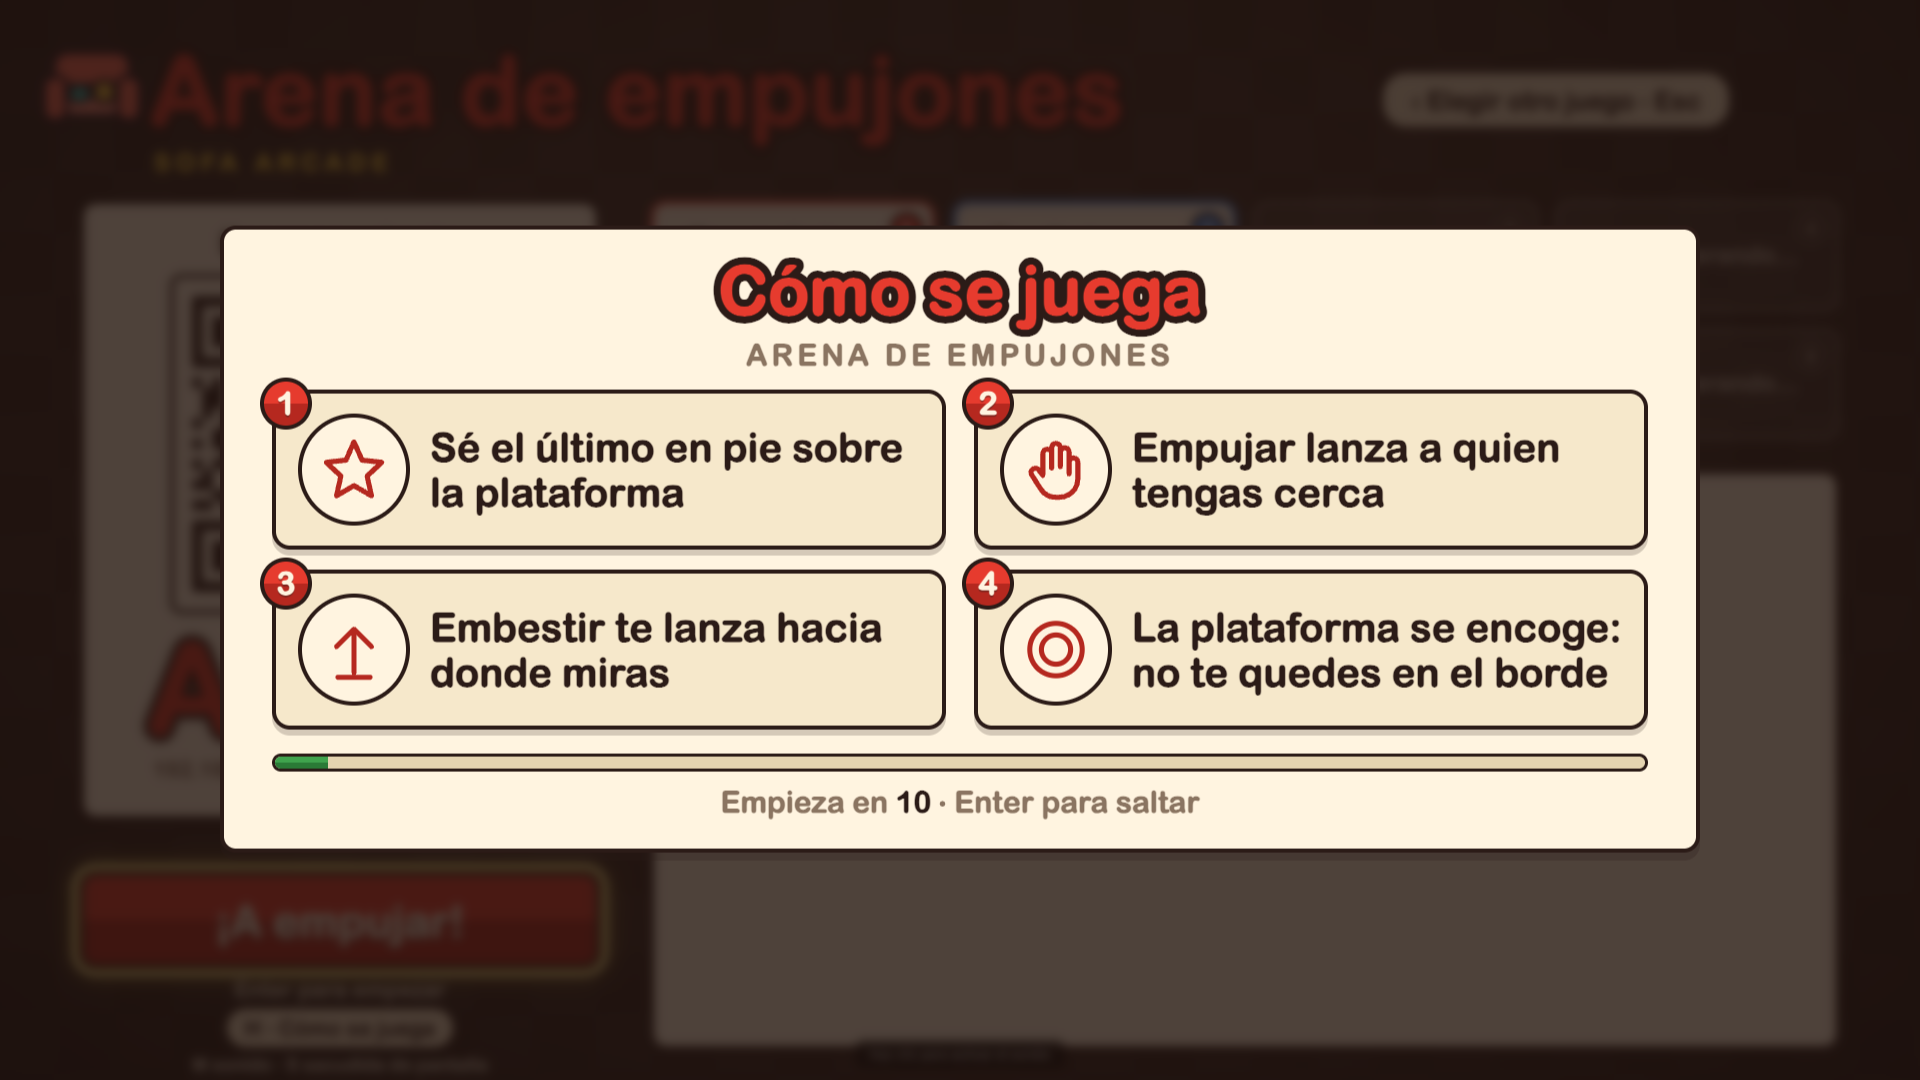
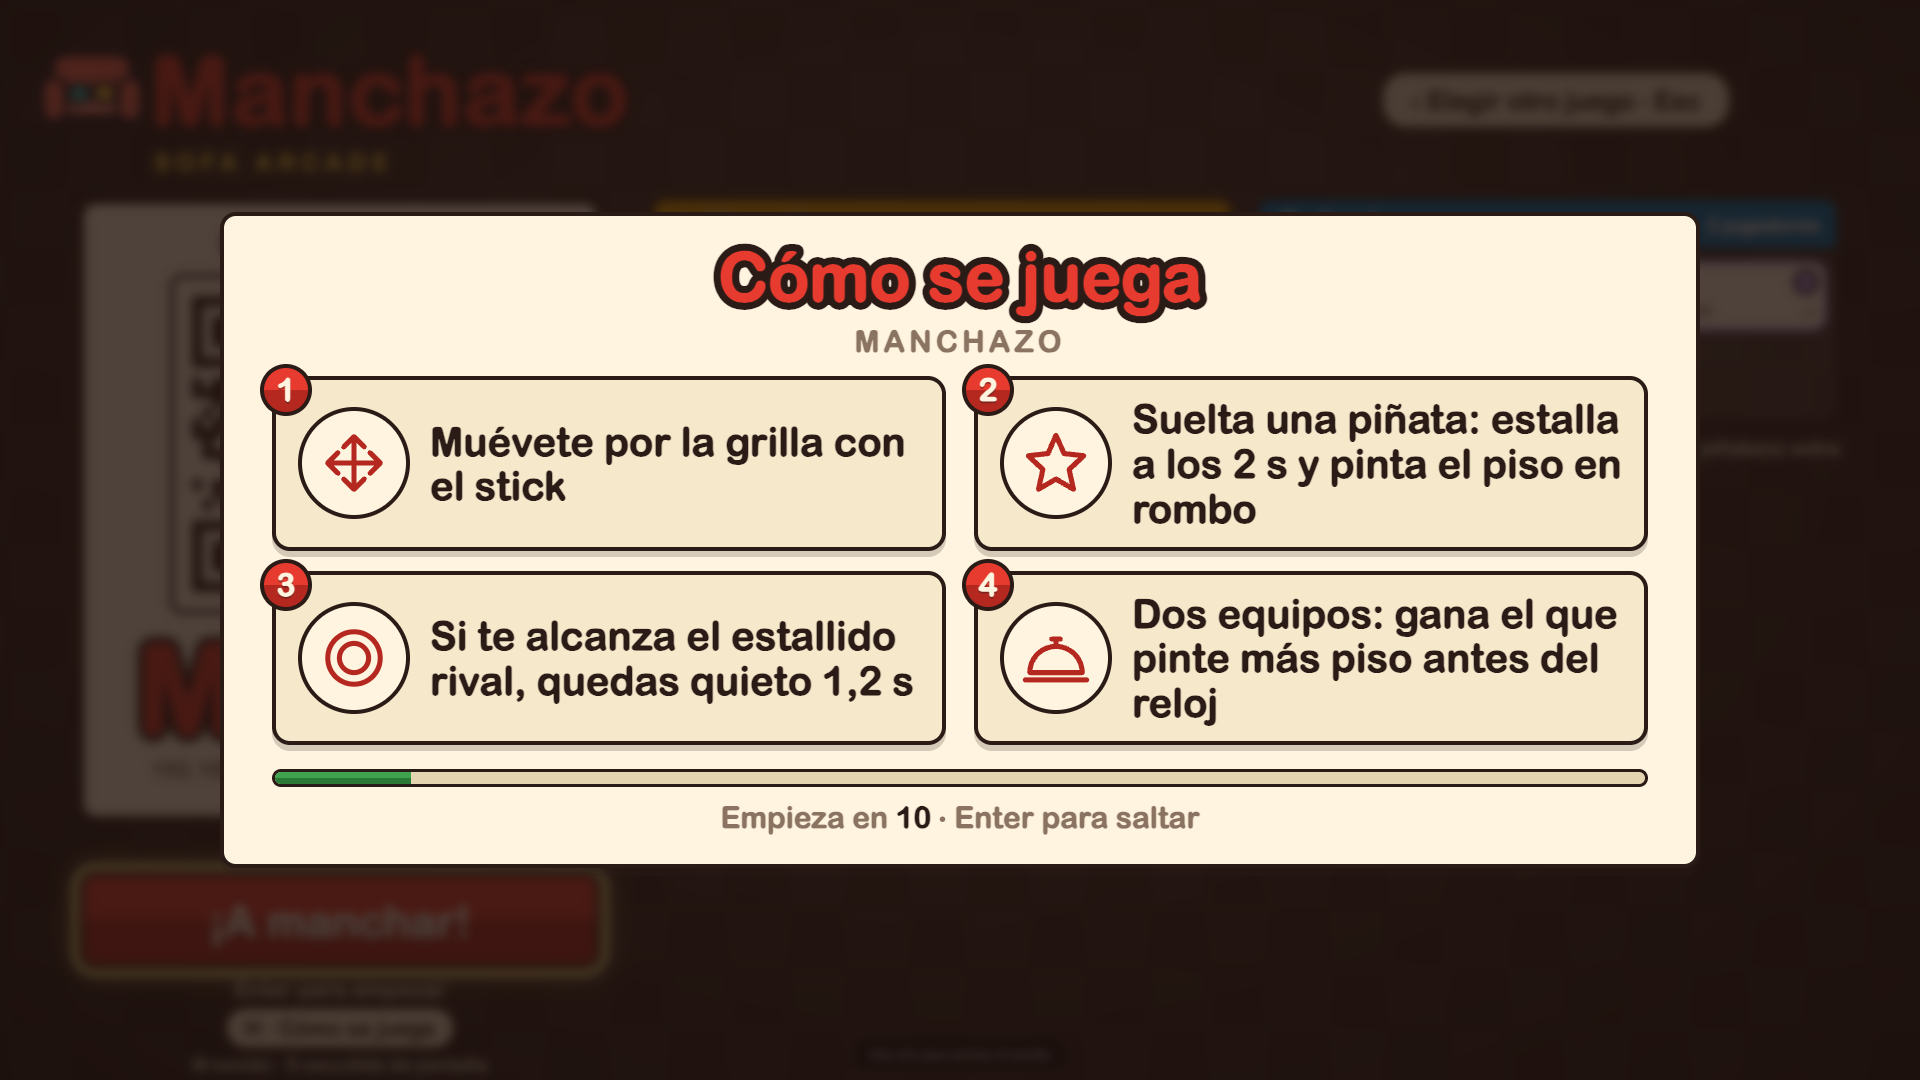
Manchazo: catálogo (nombre, orden), barra del piso y espaciado de resultados (#36)
* capture: manchazo scenario also shoots the menu and the how-to card

Claude-Session: https://claude.ai/code/session_01Djd76mDCFx5wKHiv7BtgJo

* Manchazo: rename in the catalog (second in the menu), HUD bar shows the floor, results title spacing

Claude-Session: https://claude.ai/code/session_01Djd76mDCFx5wKHiv7BtgJo

* hud-bar test: overflow case really overflows

Claude-Session: https://claude.ai/code/session_01Djd76mDCFx5wKHiv7BtgJo

* capture/e2e menu pickers read the card index (sel is a number); no-break space in how-to times

Claude-Session: https://claude.ai/code/session_01Djd76mDCFx5wKHiv7BtgJo

* evidence (temporary): before captures

Claude-Session: https://claude.ai/code/session_01Djd76mDCFx5wKHiv7BtgJo

* captures: regrab menu (tv-menu-soon), how-to, tele and results for Manchazo

Claude-Session: https://claude.ai/code/session_01Djd76mDCFx5wKHiv7BtgJo

* evidence: drop the temporary before captures (still reachable by commit)

Claude-Session: https://claude.ai/code/session_01Djd76mDCFx5wKHiv7BtgJo

* baseline: hashes of tv-menu-soon.png and tv-howto.png (Manchazo captures)

Claude-Session: https://claude.ai/code/session_01Djd76mDCFx5wKHiv7BtgJo

---------

diff --git a/games/arena/manifest.ts b/games/arena/manifest.ts
@@ -1,4 +1,4 @@
-// Arena's entry in the game registry. `soon: true`: it is in development, so the composition root (apps/catalog) keeps it out of the screen's menu
+// Manchazo's entry in the game registry (internal id `arena`, folder `games/arena`). `soon: true`: it is in development, so the composition root (apps/catalog) keeps it out of the screen's menu
 // unless the page opens with `?soon=1`. The contract's GameManifest has no such field (it is extra here, read by apps/catalog), so nothing in platform/ changed.
 import type { GameManifest, TeamStyle } from '@pichi/core/contract';
 
@@ -8,10 +8,18 @@ export const TEAM_STYLES: readonly TeamStyle[] = [
   { name: 'Azul', color: '#0072B2', icon: '●' },
 ];
 
+// "Cómo se juega": the current rules (the one mode, and the manifest's own card, say the same).
+const STEPS = [
+  { icon: 'move', text: 'Muévete por la grilla con el stick' },
+  { icon: 'star', text: 'Suelta una piñata: estalla a los 2 s y pinta el piso en rombo' },
+  { icon: 'plate', text: 'Si te alcanza el estallido rival, quedas quieto 1,2 s' },
+  { icon: 'bell', text: 'Dos equipos: gana el que pinte más piso antes del reloj' },
+] as const;
+
 export const arenaManifest = {
   id: 'arena',
-  name: 'Arena de empujones',
-  blurb: 'Empuja a tus rivales fuera de la plataforma.',
+  name: 'Manchazo',
+  blurb: 'Dos equipos sueltan piñatas que pintan el piso en rombo: gana el que deje más piso de su color.',
   soon: true,
   minPlayers: 2,
   maxPlayers: 8,
@@ -29,22 +37,10 @@ export const arenaManifest = {
       teams: { count: [2, 2], maxRatio: 4, handicap: 'game', styles: TEAM_STYLES },
       controls: { btn1: { label: 'Piñata', icon: 'star' }, btn2: { label: 'Pronto', icon: 'jump' } },
       howTo: {
-        steps: [
-          { icon: 'move', text: 'Muévete por la grilla con el stick' },
-          { icon: 'star', text: 'Suelta una piñata: estalla a los 2 s y pinta en rombo' },
-          { icon: 'plate', text: 'Si un estallido rival te alcanza, quedas quieto 1,2 s' },
-          { icon: 'bell', text: 'Gana el equipo con más área pintada al acabar el reloj' },
-        ],
+        steps: STEPS,
       },
     },
   ],
   defaultMode: 'versus',
-  howTo: {
-    steps: [
-      { icon: 'star', text: 'Sé el último en pie sobre la plataforma' },
-      { icon: 'grab', text: 'Empujar lanza a quien tengas cerca' },
-      { icon: 'jump', text: 'Embestir te lanza hacia donde miras' },
-      { icon: 'plate', text: 'La plataforma se encoge: no te quedes en el borde' },
-    ],
-  },
+  howTo: { steps: STEPS },
 } as const satisfies GameManifest & { soon: boolean };

diff --git a/tools/capture/scenarios/manchazo.ts b/tools/capture/scenarios/manchazo.ts
@@ -3,15 +3,18 @@ import { PORT, sleep } from '../config';
 import type { Ctx } from '../session';
 
 // Manchazo F1 (Arena's default round, `?soon=1`): the TV lobby with the two teams (5 players, 3 against 2, so the handicap line shows), the round with
-// 5 phones played by bots dropping pinatas, and the results; then the phone's pad. Saved to the output folder as manchazo-*.png.
+// 5 phones played by bots dropping pinatas, and the results; then the phone's pad. Also the start menu and the how-to card. Saved to the output folder as manchazo-*.png.
 export async function runManchazoTv({ cdp, bots, join, snap, waitFor, click }: Ctx) {
   const room = 'MNCH';
   await cdp.send('Page.navigate', { url: `http://127.0.0.1:${PORT}/screen/?room=${room}&soon=1` });
   await sleep(2500);
   await join(room, 5, [], { menu: true });
+  await sleep(500);
+  await cdp.shot('manchazo-menu');
   const key = (k: string) => cdp.eval(`window.dispatchEvent(new KeyboardEvent('keydown', { key: ${JSON.stringify(k)} }))`);
   for (let i = 0; i < 4; i++) {
-    if ((await cdp.eval<{ sel: string }>('window.__pg.menu()')).sel === 'arena') break;
+    const m = await cdp.eval<{ sel: number; cards: string[] }>('window.__pg.menu()'); // `sel` is the card's index
+    if (m.cards[m.sel]?.startsWith('arena:')) break;
     await key('ArrowRight');
     await sleep(150);
   }
@@ -20,6 +23,7 @@ export async function runManchazoTv({ cdp, bots, join, snap, waitFor, click }: C
   await cdp.shot('manchazo-lobby');
   await click('#start');
   await sleep(1500);
+  await cdp.shot('manchazo-howto');
   await key('Enter'); // past the how-to / countdown, if one is up
   await waitFor((s) => s.phase === 'playing', 15_000);
   const dirs = [

diff --git a/games/arena/screen/match/scene.ts b/games/arena/screen/match/scene.ts
@@ -4,6 +4,7 @@ import Phaser from 'phaser';
 import { C, W } from '@pichi/screen-kit/art';
 import { MAP_H, MAP_ROWS, MAP_W } from '../../map';
 import { blastTiles, percentOf, type ManchazoState } from '../../sim';
+import { floorBar } from './hud-bar';
 import { TEAM_COLOR, bodyOutline } from './scene-body';
 
 const PX = 56; // logical px per tile (5 cm on a 78" screen)
@@ -98,15 +99,11 @@ export class MatchScene extends Phaser.Scene {
     const left = Math.max(0, Math.ceil((s.grid.durationTicks - s.grid.tick) / 60));
     this.clock.setText(s.grid.over ? '¡Fin!' : `${Math.floor(left / 60)}:${String(left % 60).padStart(2, '0')}`);
     [0, 1].forEach((t) => this.pct[t]!.setText(`${t === 0 ? '▲' : '●'} ${percentOf(s.match, t)} %`));
-    const total = s.match.counts[0]! + s.match.counts[1]!;
     const w = MAP_W * PX;
-    this.g.fillStyle(0x333333, 1).fillRect(X0, 112, w, 16);
-    if (total > 0) {
-      const a = (w * s.match.counts[0]!) / total;
-      this.g.fillStyle(TEAM_COLOR[0]!, 1).fillRect(X0, 112, a, 16);
-      this.g.fillStyle(TEAM_COLOR[1]!, 1).fillRect(X0 + a, 112, w - a, 16);
-    }
-    this.g.fillStyle(0xffffff, 1).fillRect(X0 + w / 2 - 2, 106, 4, 28);
+    const bar = floorBar(s.match.counts, s.match.paintable, w); // grey track = unpainted floor, orange from the left, blue from the right
+    this.g.fillStyle(0x555555, 1).fillRect(X0, 112, w, 16);
+    this.g.fillStyle(TEAM_COLOR[0]!, 1).fillRect(X0, 112, bar.orange, 16);
+    this.g.fillStyle(TEAM_COLOR[1]!, 1).fillRect(X0 + w - bar.blue, 112, bar.blue, 16);
   }
 
   private label(slot: number, stunned: boolean): Phaser.GameObjects.Text {

diff --git a/games/arena/test/hud-bar.test.ts b/games/arena/test/hud-bar.test.ts
@@ -1,0 +1,30 @@
+import { describe, expect, it } from 'vitest';
+import { floorBar } from '../screen/match/hud-bar';
+import { percentOf, type MatchState } from '../sim';
+
+describe('the HUD floor bar matches the percent labels', () => {
+  it('orange from the left and blue from the right by their share of the floor, grey in the middle', () => {
+    const w = 1000;
+    const bar = floorBar([100, 200], 400, w);
+    expect(bar).toEqual({ orange: 250, blue: 500 });
+    expect(w - bar.orange - bar.blue).toBe(250); // 25 % unpainted
+  });
+
+  it('shows the same shares as percentOf (not shares of the painted tiles only)', () => {
+    const m = { counts: [40, 80], paintable: 400 } as unknown as MatchState;
+    const w = 800;
+    const bar = floorBar(m.counts, m.paintable, w);
+    expect(percentOf(m, 0)).toBe(10);
+    expect(percentOf(m, 1)).toBe(20);
+    expect(bar.orange / w).toBeCloseTo(percentOf(m, 0) / 100, 10);
+    expect(bar.blue / w).toBeCloseTo(percentOf(m, 1) / 100, 10);
+  });
+
+  it('empty floor draws nothing; a full floor never overflows the track', () => {
+    expect(floorBar([0, 0], 400, 1000)).toEqual({ orange: 0, blue: 0 });
+    expect(floorBar([0, 0], 0, 1000)).toEqual({ orange: 0, blue: 0 });
+    expect(floorBar([200, 200], 400, 1000)).toEqual({ orange: 500, blue: 500 });
+    const over = floorBar([300, 200], 400, 1000); // counts that do not fit the floor (should not happen): the bars still do not cross
+    expect(over.orange + over.blue).toBeLessThanOrEqual(1000);
+  });
+});

diff --git a/apps/catalog/src/games.ts b/apps/catalog/src/games.ts
@@ -17,4 +17,10 @@ export const COMING_SOON: readonly ComingSoon[] = IN_DEVELOPMENT.map(({ id, name
 /** What the screen's menu lists by default: the published games and the announced ones. */
 export const CATALOG = createCatalog(GAMES, COMING_SOON);
 /** Every game, the ones in development included: what the relay accepts and the phones name; the screen binds it only with `?soon=1`. */
-export const DEV_CATALOG = createCatalog([...GAMES, ...IN_DEVELOPMENT], COMING_SOON);
+// The menu's order with `?soon=1`: Pizzas, Manchazo (`arena`), Obstáculos. Anything not listed keeps its place after these.
+const DEV_ORDER: readonly string[] = ['pizzas', 'arena', 'obstaculos'];
+const rank = (id: string) => (DEV_ORDER.includes(id) ? DEV_ORDER.indexOf(id) : DEV_ORDER.length);
+export const DEV_CATALOG = createCatalog(
+  [...GAMES, ...IN_DEVELOPMENT].sort((a, b) => rank(a.id) - rank(b.id)),
+  COMING_SOON,
+);

diff --git a/apps/catalog/test/catalog.test.ts b/apps/catalog/test/catalog.test.ts
@@ -69,7 +69,7 @@ describe('apps/catalog', () => {
   });
   it('games in development: only the dev catalog and parser (the relay) know them; the published ones do not change', () => {
     expect(IN_DEVELOPMENT.map((g) => g.id)).toEqual(['arena']);
-    expect(DEV_CATALOG.ids).toEqual(['pizzas', 'obstaculos', 'arena']);
+    expect(DEV_CATALOG.ids).toEqual(['pizzas', 'arena', 'obstaculos']); // the menu with ?soon=1: Manchazo (arena) is second
     expect(DEV_CATALOG.problems()).toEqual([]);
     expect(DEV_CATALOG.comingSoon).toEqual(CATALOG.comingSoon); // the card is the same, and the dev catalog hides it once the game is listed
     expect(parseDevClientMessage(cfg({ game: 'arena', modeId: 'versus' }))).toMatchObject({ t: 'config', game: 'arena', modeId: 'versus' }); // F1: Manchazo is arena's one mode

diff --git a/games/arena/screen/match/hud-bar.ts b/games/arena/screen/match/hud-bar.ts
@@ -1,0 +1,13 @@
+// The HUD's floor bar: orange grows from the left by its share of the floor, blue from the right by its own, and the grey between is what nobody has painted.
+// The shares are the same ones the percent labels show (painted tiles / paintable tiles), so the bar and the numbers above it agree.
+export interface FloorBar {
+  orange: number; // px from the left edge
+  blue: number; // px from the right edge
+}
+
+export function floorBar(counts: readonly number[], paintable: number, width: number): FloorBar {
+  if (paintable <= 0) return { orange: 0, blue: 0 };
+  const px = (n: number) => Math.min(width, Math.max(0, (width * n) / paintable));
+  const orange = px(counts[0] ?? 0);
+  return { orange, blue: Math.min(width - orange, px(counts[1] ?? 0)) };
+}

diff --git a/tools/capture/scenarios/arena-grid.ts b/tools/capture/scenarios/arena-grid.ts
@@ -10,7 +10,8 @@ export async function runArenaGridTv({ cdp, bots, open, join, snap, waitFor, cli
   await join(room, 6, [], { menu: true });
   const key = (k: string) => cdp.eval(`window.dispatchEvent(new KeyboardEvent('keydown', { key: ${JSON.stringify(k)} }))`);
   for (let i = 0; i < 4; i++) {
-    if ((await cdp.eval<{ sel: string }>('window.__pg.menu()')).sel === 'arena') break;
+    const m = await cdp.eval<{ sel: number; cards: string[] }>('window.__pg.menu()'); // `sel` is the card's index
+    if (m.cards[m.sel]?.startsWith('arena:')) break;
     await key('ArrowRight');
     await sleep(150);
   }

diff --git a/tools/lobby-games-e2e.ts b/tools/lobby-games-e2e.ts
@@ -19,7 +19,8 @@ async function game(c: Ctx, id: 'obstaculos' | 'arena', room: string, n: number,
   await join(room, n, [], { menu: true });
   const key = (k: string) => cdp.eval(`window.dispatchEvent(new KeyboardEvent('keydown', { key: ${JSON.stringify(k)} }))`);
   for (let i = 0; i < 4; i++) {
-    if ((await cdp.eval<{ sel: string }>('window.__pg.menu()')).sel === id) break;
+    const m = await cdp.eval<{ sel: number; cards: string[] }>('window.__pg.menu()'); // `sel` is the card's index
+    if (m.cards[m.sel]?.startsWith(`${id}:`)) break;
     await key('ArrowRight');
     await sleep(150);
   }

diff --git a/games/arena/test/conformance.test.ts b/games/arena/test/conformance.test.ts
@@ -14,8 +14,8 @@ describe('arena conforms to the game contract', () => {
     expect(arenaManifest.soon).toBe(true);
     expect({ id: arenaManifest.id, name: arenaManifest.name, blurb: arenaManifest.blurb }).toEqual({
       id: 'arena',
-      name: 'Arena de empujones',
-      blurb: 'Empuja a tus rivales fuera de la plataforma.',
+      name: 'Manchazo',
+      blurb: 'Dos equipos sueltan piñatas que pintan el piso en rombo: gana el que deje más piso de su color.',
     });
   });
   it('a catalog refuses a second manifest with the id of a published game', () => {

diff --git a/apps/controller/src/games.ts b/apps/controller/src/games.ts
@@ -4,4 +4,4 @@ import { obstaculosController } from '@pichi/game-obstaculos/controller';
 import { pizzasController } from '@pichi/game-pizzas/controller';
 import type { ControllerGame } from '@pichi/controller-kit';
 
-export const controllerGames: readonly ControllerGame[] = [pizzasController, obstaculosController, arenaController];
+export const controllerGames: readonly ControllerGame[] = [pizzasController, arenaController, obstaculosController];

diff --git a/apps/screen/src/games.ts b/apps/screen/src/games.ts
@@ -6,4 +6,4 @@ import { pizzasScreen } from '@pichi/game-pizzas/screen';
 import { catalog, type ScreenGame } from '@pichi/screen-kit/shell';
 
 export const screenGames = (): readonly ScreenGame[] =>
-  [pizzasScreen, obstaculosScreen, arenaScreen].filter((g) => catalog().isGameId(g.manifest.id));
+  [pizzasScreen, arenaScreen, obstaculosScreen].filter((g) => catalog().isGameId(g.manifest.id));
